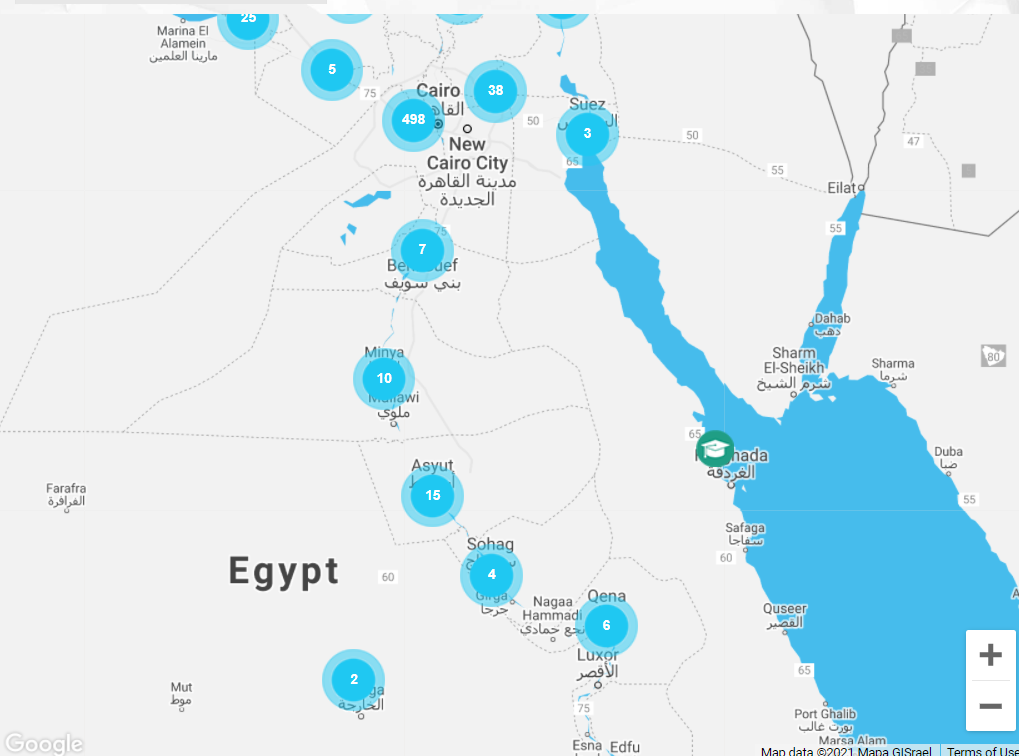
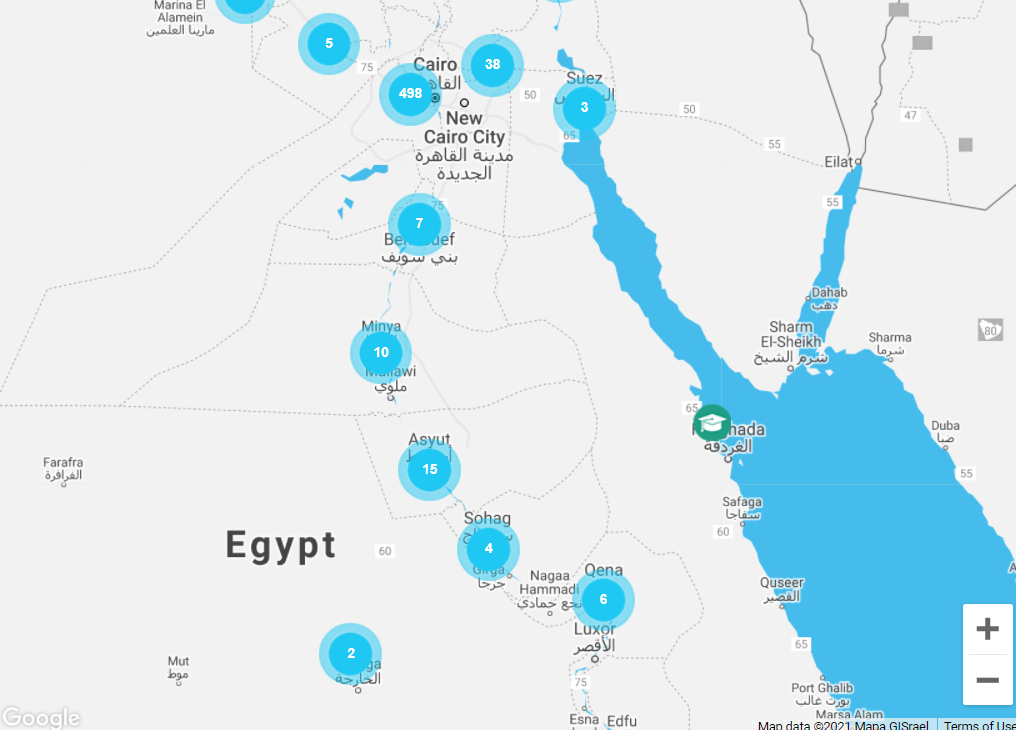
hello

diff --git a/css/style.css b/css/style.css
@@ -101,7 +101,7 @@ ul{
       background: url("https://egyptinnovate.com/sites/all/themes/egyptinnovate/assets/img/body-bg.jpg");
       background-size: cover;
       min-width: 340px;
-      min-height :775px;
+      min-height :650px;
       position: relative;
       padding-top: 120px;
   }
@@ -110,8 +110,6 @@ ul{
        display: flex;
        align-items: center;
        justify-content: space-between;
-       
-       
  }
  .landing .image{
      width: 500px;
@@ -123,6 +121,7 @@ ul{
 .landing .container .text{
  padding: 20px;
  width: 400px;
+ line-height: 40px;
 }
 .btn{
      color: #fff;
@@ -133,15 +132,13 @@ ul{
     border-radius: 6px;
     margin: 5px;
  }
-  
-
   .separator{
       width: 100%;
-    
       background: url(../image/pattern.png);
       background-color: #b22432;
       position: relative;
-      top: -20px;
+   
+   
   }
   .separator .separator-text{
     color: #fff;
@@ -153,8 +150,8 @@ ul{
 }
 /* start artivles */
   .articles{
-      padding-top:200px ;
-      padding-bottom: 100px;
+      padding-top:120px ;
+   padding-bottom: 60px;
       position: relative;
   }    
   .articles .container{
@@ -196,10 +193,12 @@ ul{
   .map{
     background-image: url(../image/map.png);
     background-size: cover;
-    min-width: 340px;
-    min-height :700px;
-    position: relative;
+   width:100%;
+   position: relative;
+   top: -29;
+
   }
+ 
   .map .container{
       display: flex;
  
@@ -213,9 +212,6 @@ ul{
    margin: 25%;
    line-height: 25px;
 }
-
-
-
   .partner{
       background-color: white;
       margin-top: 0%;
